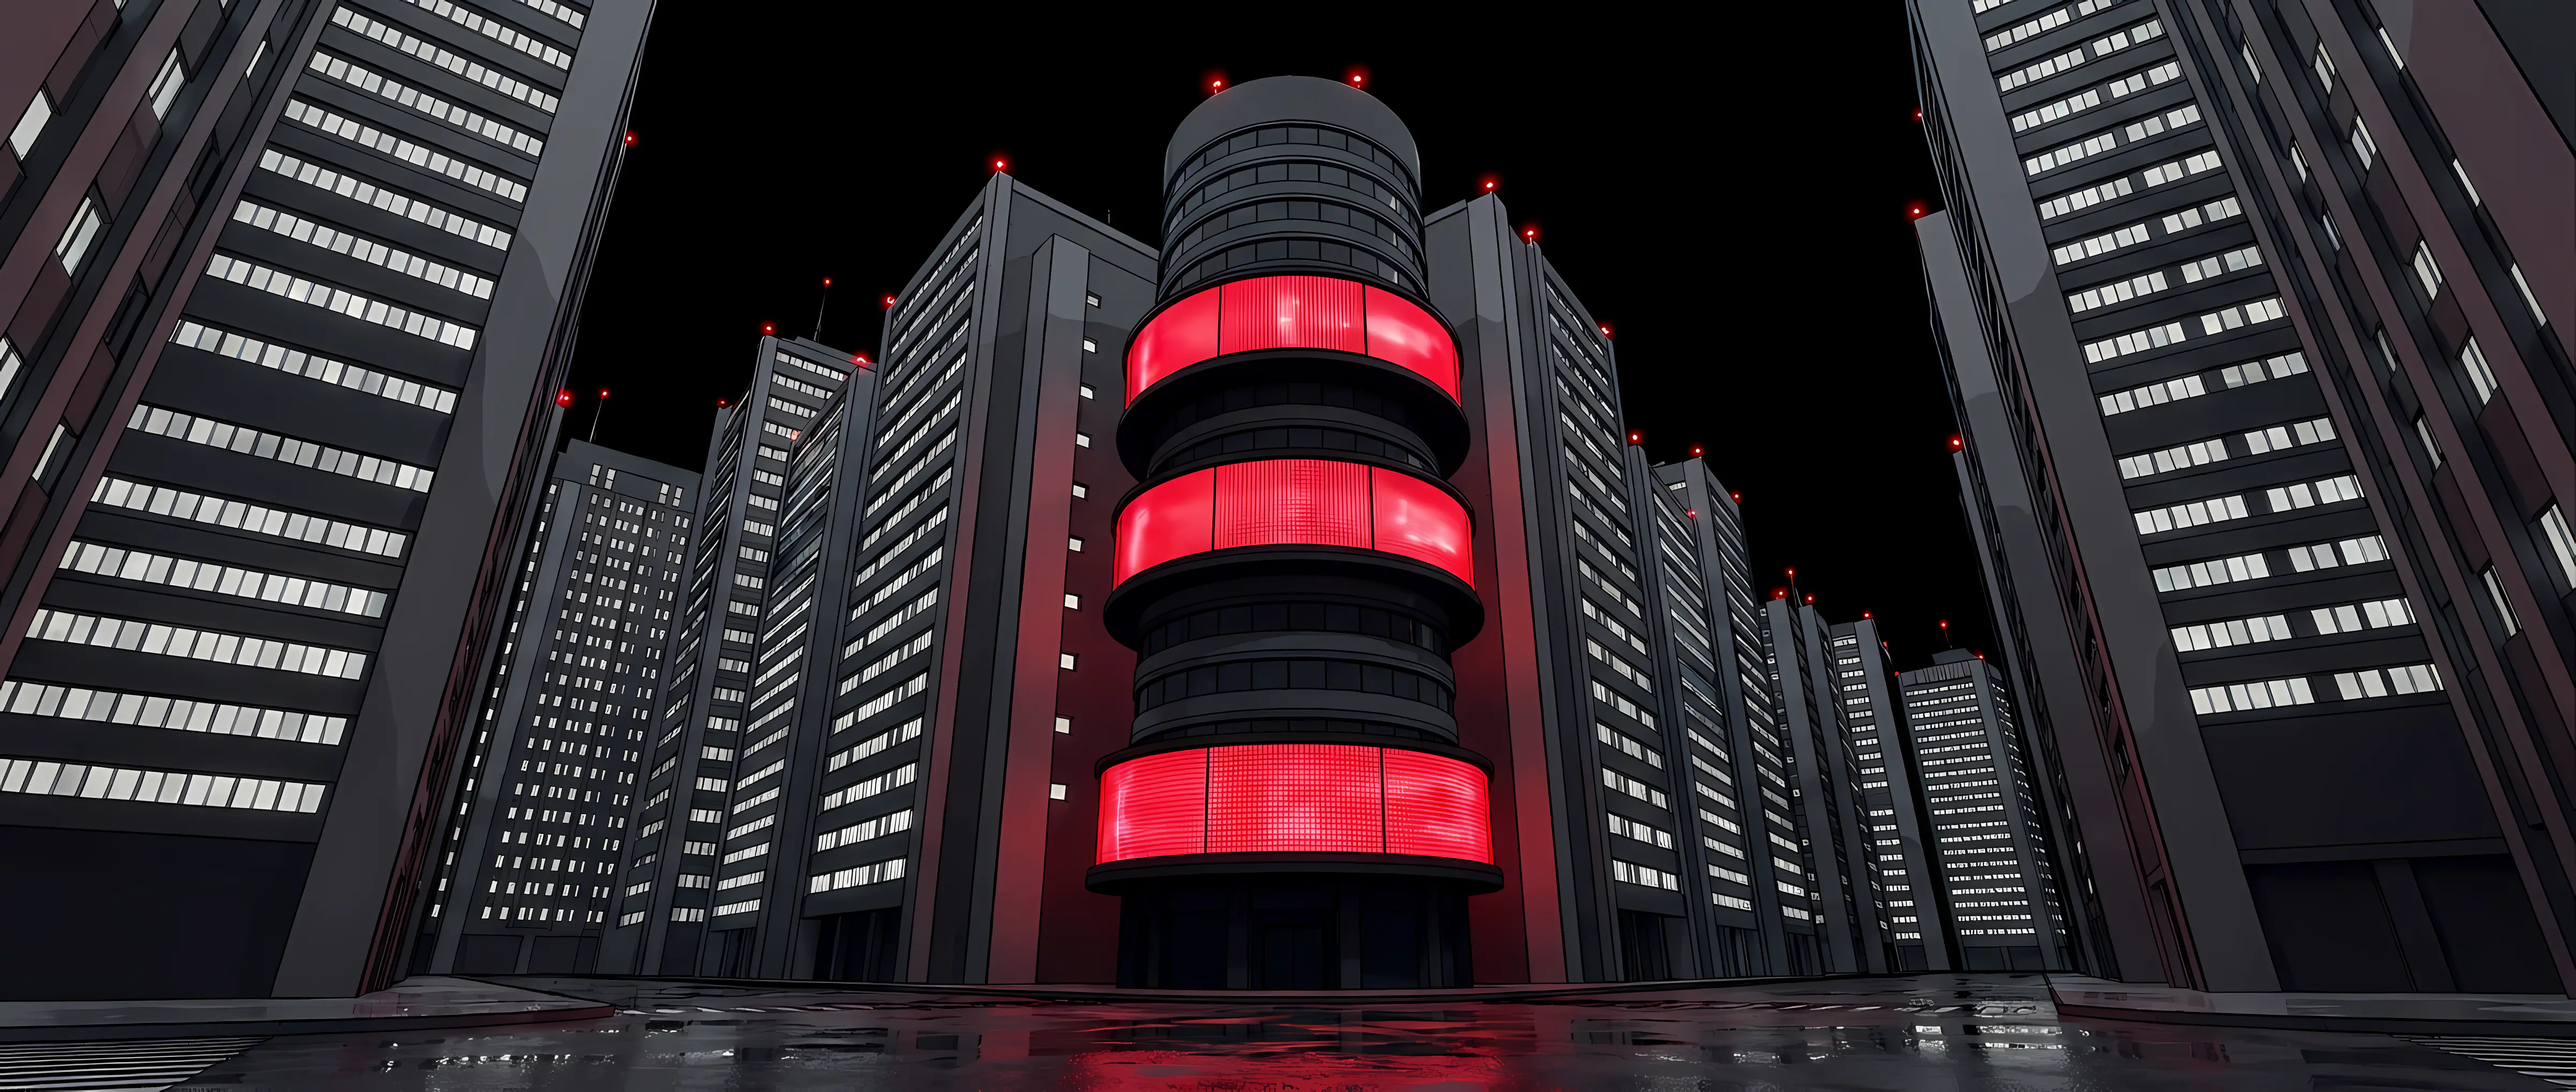
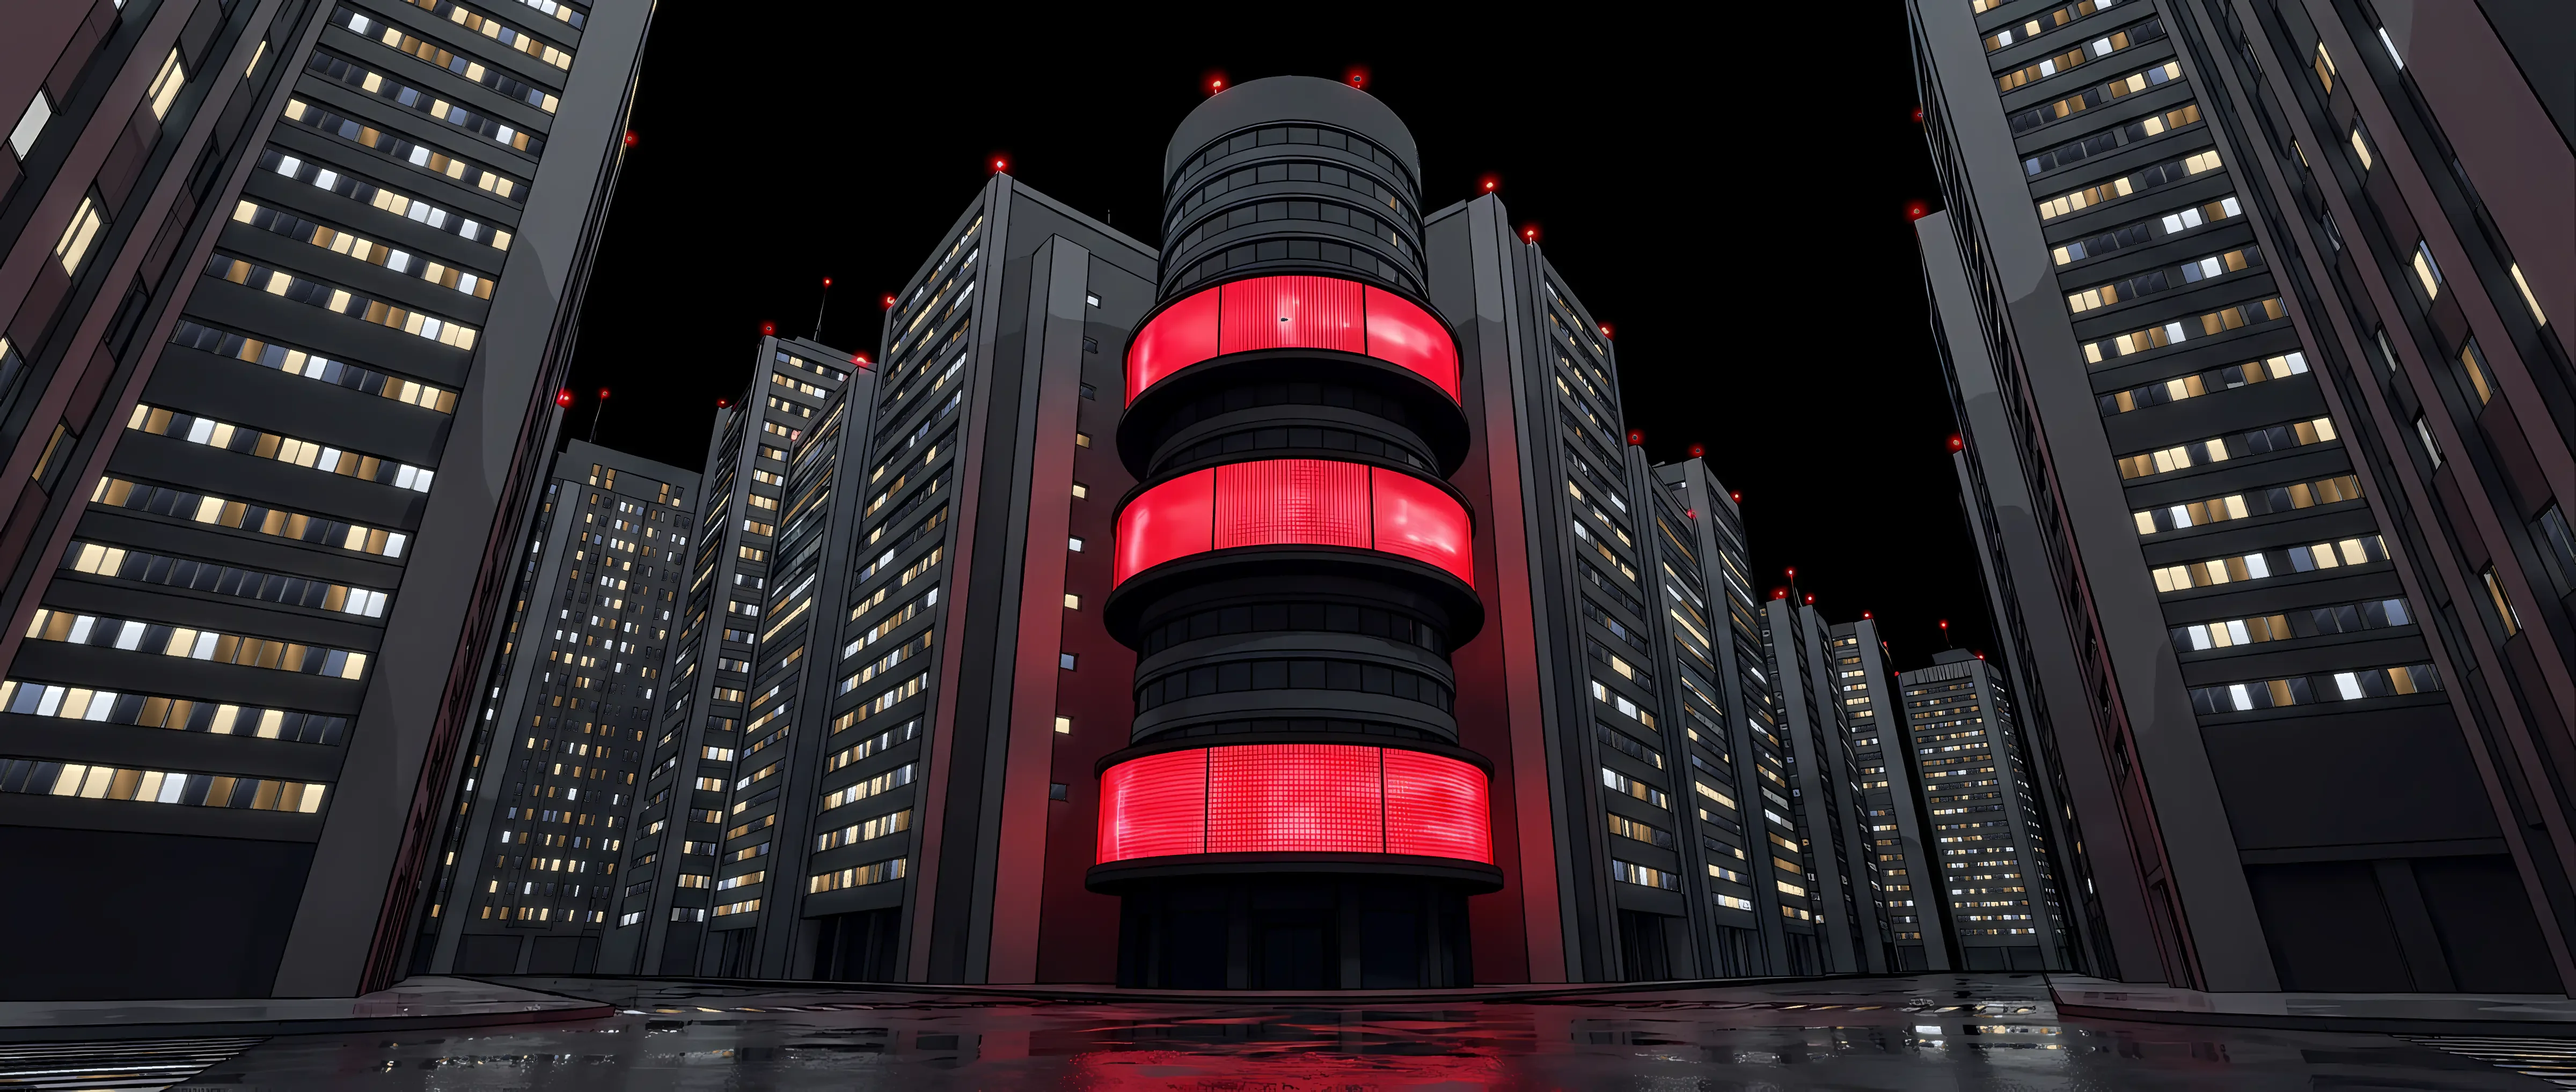
Lit up every building's windows

diff --git a/DESIGN.md b/DESIGN.md
@@ -337,6 +337,7 @@ Run after every design change; report results honestly.
   - **The departure board is painted, not drawn.** The SVG box always read as a vector cut-out on the painted station (restyling its greys lost a blind comparison to it). Gemini (Nano Banana Pro) rendered an original hanging board in the station's toon style with a blank black screen (`board.webp`, 480 x 420, keyed off green); the screen's corners were measured on the picture (`BOARD_QUAD`) and the live LED rows are mapped onto them with a perspective `matrix3d` (`rectToQuad`), so LET US START THE GAME and the clock sit **in** the painted screen. Mirrored on the left of the light strip. Gemini, both orders: same texture as the station 7 vs 4, belongs 6-7 vs 4. Where it may hang is decided **through the camera's real tilt**: three probe points measure how the art maps onto the screen (`artToScreen`), because a plain scale ignored the -3deg tilt and put the board ~36 px lower at a phone's left edge, onto the name; it decides 1.6 s in, once the name has landed, and again if the name's box changes size. Checked on 11 screens: shown on all, touching nothing. The ballast is drawn batched (five paths, one fill each), so the track's one-off drawing stays a short task (mobile Lighthouse 0.94-0.99).
   - **The board never shows off the title.** The station layer (lights, graffiti, board) only shows with `body[data-mode="title"]`; before, it stayed when the station picture faded out and the board hung faded over the city on THE PLAN. A test guards it.
   - **A bigger, Japanese vending machine (Nov 21, John: "it looks small, make it bigger and make it look like a japanese vending machine").** The grey one was true to scale for where it stood (1.8 m at the second pillar, 64 px of the 1600 art), so it read as tiny. Now an **original Japanese platform drink machine** (Gemini, `gemini-3-pro-image-preview`, a frontal cel-shaded sprite on chroma green, picked from three for being the most Japanese and the cleanest at full size): a **crimson cabinet**, a glowing header panel, **four rows of drink samples with a lit button under each** (plain colours and bands, **no lettering anywhere**), a coin and bill panel on the right, a wide pickup flap. It stands **a step in front of the second pillar** (its foot at 636, so it is nearer the camera) and is **100 px tall (1.55x the old one)**, the bin beside it 38. Seated like the old one (station greys, ink outline, a shadow on the pillar, a contact shadow, a faint reflection), but **its lit window keeps its own light**, so the drinks stay in colour, and the cabinet keeps 65% of its colour. **Glows and contact shadows are now drawn on a padded canvas**: before, their blur was clipped at the canvas edge and showed as a hard grey rectangle on the floor. It is clear of the ATL poster on desktop; with the phone sideways it sits right beside the poster. Gemini, old vs new, both orders: the first try (110 px, 85% colour) was split (oversized and too saturated, "pasted"); the toned one won both ways: Japanese 7 vs 5, size 6-7 vs 4-5, belongs 6-7 vs 5-6. Script: `compose2.py` in the art pipeline (env `VMP`, `VT`).
+  - **The machine is built in 3D, against the first pillar, and the bin sits in the corner beside it (Nov 21, John: "it kind of looks out of place... play with the textures... the trash can's out of place, place it somewhere natural... put the vending machine against the pillar... not pastable... look 3D").** The station's perspective was measured from the pillars' bands and plinths (vanishing point 863,546 in 1600-art px, camera 1.33 m up, focal 753 px), and the props are **projected through it** (`compose3.py`, `proj()`): the machine is a real box (1.95 x 0.95 x 0.75 m) with its **back flat on the first pillar's front face** (22.6 m away): a **front face** and a **left side face** each warped into their quads (OpenCV perspective warp), so it converges with the corridor. **Why the first pillar:** the ATL poster covers the second pillar on every desktop and tablet (measured on 9 screens), so a machine there was half hidden; the next pillar is nearer than the machine, so **its edge is restored over the machine** (correct depth). **Station textures:** the cabinet takes **the pillars' own band red** (66,6,10) at the station's darkness, its greys go to the pillar greys, the sprite's cel shading is kept as a multiplier, light falls off down and across the cabinet, the side faces the track and the ceiling lights so it is the **lit face**, a lit top edge and bevel, **wear** (dust to the foot, scuffs, chipped flecks), a whisper of grain, the art's **ink outline**, **ink contact lines** at the floor and at the pillar seam. **Grounding:** ambient occlusion on the pillar round it, a hard + soft footprint shadow, a cast shadow away from the lights, its window's cool light on the floor and the pillar, a faint broken reflection of the window in the glossy tiles. **The bin** is a round station bin **in the corner between the machine and the pillar's track side** (where bins stand by machines), projected at the same depth, toned to the pillar grey with no bright lid, its own contact shadow. Gemini, live (flat, by the second pillar) vs this, both orders: belongs 7 vs 4-5, 3D 6 vs 3-4, against the pillar 7 vs 3-4, bin natural 6-7 vs 4-6, not pasted 6-7 vs 3-4.
   - **The station is aged** (baked into `subway-*.webp` from the original art by a script: hairline cracks with a shadowed gouge, a lit lip and chipped flakes on the long wall, the pillars and the floor; water streaks under the wall's red band; grime at the pillars' feet). **One vending machine with its back to the second pillar, under its red band, and one battered bin beside it** (Gemini sprites rendered frontal in the station's grey cel style, no text), **seated** in the art: sized by the station's perspective (1 m = 35.8 px there), toned to that pillar's own greys (desaturated, the glass glow capped), softened to the art's grain, the art's thin ink outline, a shadow cast back on the pillar, a contact shadow, a faint reflection in the glossy tiles, a little light from the glass on the floor. Kept clear of the graffiti pillar and the ATL poster. Gemini, the first pass (two machines, two bins, front-lit, pasted) vs this, both orders: belongs 6.8 vs 3.7, lighting 6.7 vs 4, texture 6.5 vs 4.4.
 - **The track reads clearly, and the board hangs on phones too (Nov 19, John: "fix the train tracks, they look a little too blended in... ensure the train tracks are fully visible... add back the train sign hanging from the roof at the back, not pasted in... part of the movie").** The drawn track bed is a lighter cel tone (up to rgb 44/44/51, was 30), the concrete sleepers lighter (#8A8D96 top, #4C4F57 faces), and each **rail is a stroke that never gets thinner than ~1.6 screen px** (a light #C9CED6 head, a white shine, an ink line along its foot), so both rails read all the way into the tunnel instead of melting into the dark. **The departure board now hangs on phones held upright** (it used to be switched off): after its four spots come smaller boards further back, each in the station's own perspective (at scale sc its top sits at 548 - 334 sc, its rods reach the same ceiling at 60 sc long, it is 150 sc wide, over either side of the platform; ink and rods thin a little with distance), and it takes the first one that is clear of the name, the calendar, the contact card and the top bar (10 px of room on a phone). Shown on every size checked (15 desktop/tablet sizes and 3 upright phones). Gemini: track visible 8, complete 9; board belongs to the scene 9, found on desktop and both phones; pass.
 - **The ceiling lights behave like real fluorescent tubes (Nov 19, John: "more realistic... actual lights and how they behave... some of them flicker, but not all at the same time... randomly, like the subway has been aging").** `src/fx/station.js` lays a layer over the platform art (placed with the same object-fit math as the `<img>`, following the camera's pan): each of the 15 painted panels (measured) gets a cool bloom and a faint spill on the ceiling **added** (screen blend). Each tube runs its own random clock: a blip off (40-110 ms), a stutter (the starter retrying, 3-7 flicks), or now and then a drop-out and re-strike; two tired tubes act up more often and sometimes hang dim. **Only one healthy tube acts up at a time**, so it never reads as the station blinking. Off, a tube is a dull grey diffuser and the glow painted round it is **multiplied** away (fading to nothing, never toward white). Runs only while the platform is on screen; steady with reduced motion. A test samples 14 s: several tubes flicker, never two healthy ones at once.
@@ -358,6 +359,7 @@ Run after every design change; report results honestly.
 - **The tower's LED screens are moving billboards (Nov 19, John: "my name or star moving from screen to screen", then: the ring above the name says "take your network" and "traverses from one side of the red screen to the other and loops").** The **middle ring** shows JOHN NGUYEN ★ and the **ring above it** shows TAKE YOUR NETWORK, in LED dots (dot-pattern mask + glow, Anton type, the star as a shape). Each crawls right to left across its own ring, leaves at the left and comes back in from the right, on a loop, at the same calm speed but out of step. The longer line uses smaller type (45% of the ring's height vs 66%) so it fits the ring's face. The bottom ring stays a plain red screen (it is behind THE PLAN's big button on most screens). This is the one allowed endless crawl (section 7 bans marquees): it is part of the city art, dimmed, and John asked for the loop. Each letter sits at its own angle on the drum (x = cx + R sin θ, squashed by cos θ, riding the ring's curved middle; hidden once it turns away), so the name wraps around the tower. A tiny rAF loop places 12 letters a frame (no measurable cost), idles on the title, and with reduced motion the name rests on the middle ring. Ring outlines were measured on the art (1600x679 space); the SVG is fitted with the art's object-fit math inside the same tilted frame (`.bd-cityframe`). It dims with the background so it never competes with the content. A test checks the two lines, that both cross their screens and leave them (the loop), and that both rest whole and centered with reduced motion.
 - **A resting mouse never picks a chapter on THE PLAN** (Nov 18): after PRESS START the pointer sits where the button was and the lines slide in under it; that used to pick CONTACT. Picking needs a real mouse move (a capture-phase pointermove unlocks it). A test guards it.
 - **Nitpick of every generated picture (Nov 21, John: "nit pick the bad generated parts on the entire site").** All 12 generated pictures were cut into 43 tiles at full size; Gemini listed every AI mistake per tile (88 flags) and each serious one was checked by eye. **Fixed (all found by eye, then checked by Gemini, old vs new both orders, clean 7 vs 4 every time):** **(1) THE DROP's crown tower:** fake lettering on the ledge under the star emblem (painted out with the ledge's own grey), and about half of the dark floor panels between window rows were AI **scribble-hatching** while the rest were flat grey; the windows give the grid (white and red lit windows, grouped per floor and bay), and every messy panel between two rows of windows is repainted the clean panels' flat grey (single-window pilasters and the light band above the first floor left alone). **(2) The SIDE QUESTS square:** the vertical **pink neon sign was full of pseudo-letters** (now a dark face with one neon tube and five neon dots), the **white shop sign had fake kanji** (now one bold black star, our motif, over a row of bulbs), faint letters on a shop canopy (each row repainted its own colour) and a small red sign's faint letters (plain red face). **(3) The platform litter:** the **receipt's pseudo-writing** is inpainted away (its printed rule lines, outline and stains stay). **Checked and kept (false alarms or by design):** the city's rooftop beacons (aviation lights, meant to float on the night sky), irregular small windows at a distance, the train's grab bars and straps (real), the dagger's filled pommel (filled on purpose so no red dot shows), the newspaper's lines (read as print, not letters), the departure board, facade, graffiti and train nose. **Rule:** no generated picture may carry letters it wasn't asked for; any lettering on a sign is ours (set in our fonts) or a letter-free shape. Scripts: `square_signs.py`, `crown_fix.py`, `receipt_fix.py` (scratchpad `nit/fix`).
+- **Every building's windows are lit like a real city at night (Nov 21, John: "in all the building windows make it have light, don't make all the windows the exact lighting volume, make some bright, semi bright, or no lights/vacant. make the lighting high quality").** The city (title upshot, the board, THE DROP's sky), the crown tower and its repeating facade: every pane is found (lit panes by brightness and low colour; the facade's flat glass by its own grey-green) and relit on its own, **about a third each**: **bright** (an office's white light, 60% warm incandescent, 40% cool fluorescent, brightest under the ceiling), **semi** (80% a lamp left on, amber, brighter to one side; 20% a screen's blue glow) and **vacant** (dark glass with one soft streak of reflected sky). States come from a **smooth cluster field stretched along the floors** plus randomness, ranked so the mix is exact, so whole floors and corners are busy or quiet together like a real tower, never salt-and-pepper. A window's two panes share one state; the facade's narrow decorative strips are left alone; panes cut by the facade's top and bottom edges match so the repeat stays seamless (bloom wraps too). Each pane keeps the art's own shading; edges are anti-aliased; bright panes **bloom** softly past their frames (screen blend, two radii; tighter on the facade so the ink lines stay crisp). The crown's red signal windows are kept. The square (SIDE QUESTS) already mixes lit and dark windows in its painting and was left as is. Gemini, old vs new, both orders: city variety 7 vs 4, realism 7 vs 4; crown 7 vs 3-3.5; facade 7 vs 3.5-4. Scripts: `winlight.py`, `facade_win.py` (scratchpad `win`).
 - **Canvas performance (Nov 18):** the PRESS START train is drawn in 5px strips from a cached working copy of the car art at most 912px tall (slicing the 2770px file hundreds of times a frame cost 450 ms of a 1.5 s shot); the light pools are batched into a few `Path2D` fills; the working copies and window profile are built in idle time once the platform shows. Result: scripting during PRESS START 618 ms -> 113 ms. Stress proof: 40 transitions in a row on a 6x-slowed phone and on desktop, 0 errors, 0 crashes, JS heap flat (3.4 -> 3.7 MB), live DOM returns to the same size each lap.
 - `npx impeccable detect src/` and against the running page; fix real findings (side-stripe borders, low contrast, marquees). Star/jagged clip-paths are intentional.
 - Vercel Web Interface Guidelines pass (focus states, touch-action, overscroll, aria labels, no `transition: all`).
